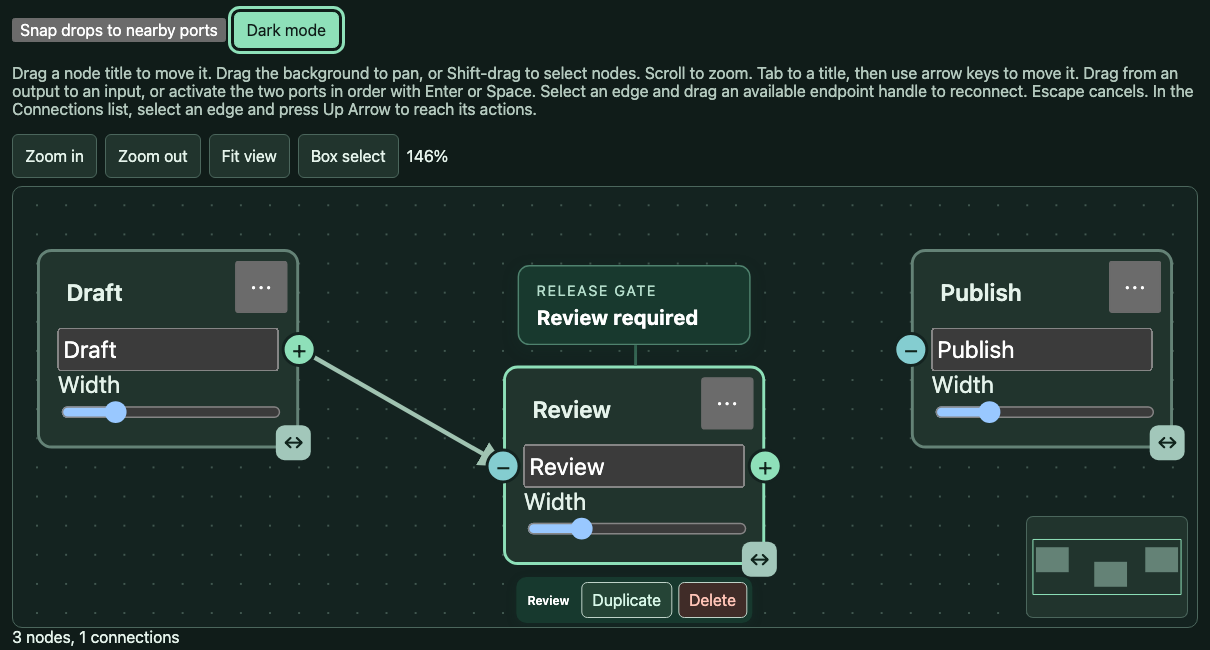
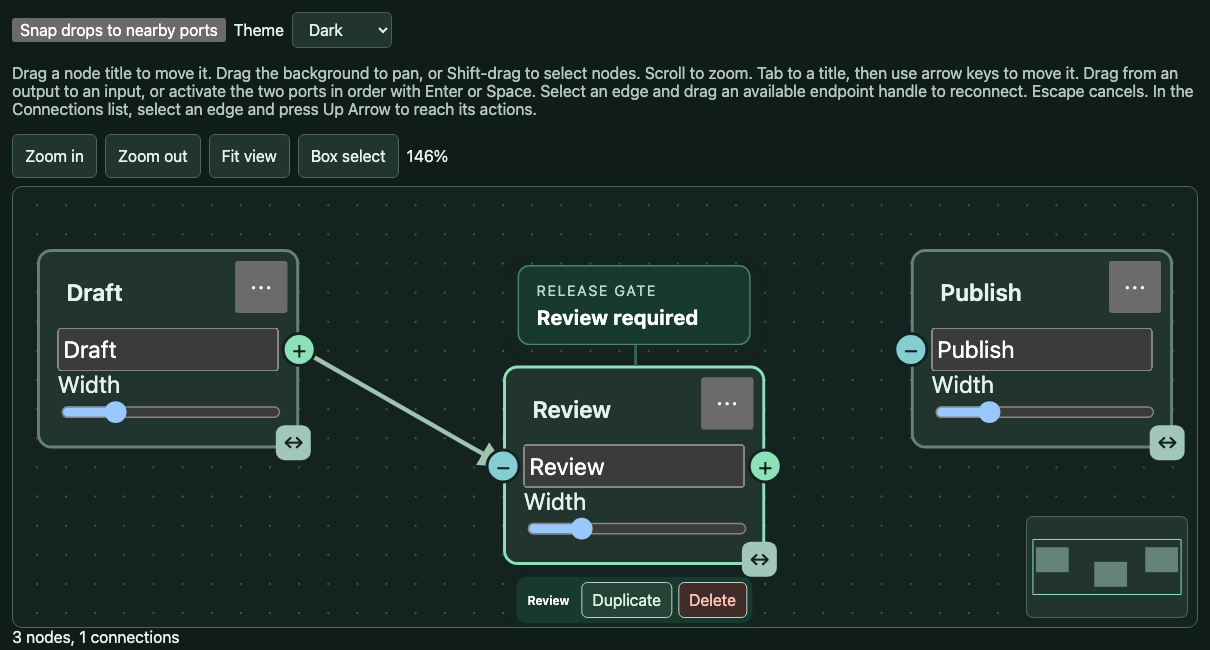
feat(flow-sample): follow the system theme

Changed region(s): [[0.1835, 0.0, 0.3058, 0.0923]]

diff --git a/apps/flow-sample/src/editor/view.ts b/apps/flow-sample/src/editor/view.ts
@@ -20,6 +20,7 @@ import type { Document, HtmlBuilder } from 'foldkit/html';
 import { workbenchPolicy } from './editor-policy';
 import { Message } from './message';
 import {
+  ThemePreference,
   NavigationDesign,
   WheelNavigation,
   BackgroundStyle,
@@ -68,6 +69,8 @@ const edgePathOptions: ReadonlyArray<{ label: string; style: EdgePathStyle | nul
 ];
 
 export function view(model: Model, h: HtmlBuilder<Message>): Document {
+  const themePreference = model.themePreference ?? 'system';
+  const colorScheme = themePreference === 'system' ? model.systemColorScheme : themePreference;
   const button = (label: string, message: Message, disabled = false) =>
     h.button(
       [
@@ -213,7 +216,7 @@ export function view(model: Model, h: HtmlBuilder<Message>): Document {
   return {
     title: 'Workflow patterns | FoldKit Flow',
     body: h.div(
-      [h.DataAttribute('flow-workbench-color-scheme', model.colorScheme ?? 'light')],
+      [h.DataAttribute('flow-workbench-color-scheme', colorScheme)],
       [
         h.div(
           [
@@ -1162,15 +1165,27 @@ export function view(model: Model, h: HtmlBuilder<Message>): Document {
           ],
           ['Snap drops to nearby ports'],
         ),
-        h.button(
+        h.label(
+          [h.Class('workbench-theme-picker')],
           [
-            h.Class('workbench-theme-toggle'),
-            h.Type('button'),
-            h.AriaPressed(String(model.colorScheme === 'dark')),
-            h.Disabled(model.colorScheme === null),
-            h.OnClick(Message.ClickedColorScheme()),
+            'Theme',
+            h.select(
+              [
+                h.Value(themePreference),
+                h.Disabled(model.themePreference === null),
+                h.OnChange((value) =>
+                  Message.SelectedThemePreference({
+                    themePreference: Schema.decodeUnknownSync(ThemePreference)(value),
+                  }),
+                ),
+              ],
+              [
+                h.option([h.Value('system'), h.Selected(themePreference === 'system')], ['System']),
+                h.option([h.Value('light'), h.Selected(themePreference === 'light')], ['Light']),
+                h.option([h.Value('dark'), h.Selected(themePreference === 'dark')], ['Dark']),
+              ],
+            ),
           ],
-          ['Dark mode'],
         ),
         flowView(h, model.editor, {
           renderViewportControls: (context, builder) => {
@@ -1336,7 +1351,7 @@ export function view(model: Model, h: HtmlBuilder<Message>): Document {
           minimalMode: model.minimalMode,
           diagnostics: model.diagnosticsEnabled ? model.diagnostics : false,
           background,
-          theme: workbenchThemes[model.colorScheme ?? 'light'],
+          theme: workbenchThemes[colorScheme],
           nodeToolbar:
             model.nodeToolbarDesign === 'compact'
               ? { placement: 'bottom', offset: 12 }

diff --git a/apps/flow-sample/src/editor/command.ts b/apps/flow-sample/src/editor/command.ts
@@ -3,32 +3,28 @@ import { Effect, Schema } from 'effect';
 import { Command } from 'foldkit';
 
 import { Message } from './message';
-import { ColorScheme } from './model';
+import { ThemePreference } from './model';
 
 const colorSchemeKey = 'opsydyn.foldkit-flow.color-scheme.v1';
 
-export const LoadColorScheme = Command.define('LoadColorScheme', {
-  messages: [Message.LoadedColorScheme],
+export const LoadThemePreference = Command.define('LoadThemePreference', {
+  messages: [Message.LoadedThemePreference],
   execute: Effect.try(() => globalThis.localStorage.getItem(colorSchemeKey)).pipe(
     Effect.match({
-      onSuccess: (stored) => (Schema.is(ColorScheme)(stored) ? stored : null),
-      onFailure: () => null,
+      onSuccess: (stored) =>
+        Message.LoadedThemePreference({
+          themePreference: Schema.is(ThemePreference)(stored) ? stored : 'system',
+        }),
+      onFailure: () => Message.LoadedThemePreference({ themePreference: 'system' }),
     }),
-    Effect.map((stored) =>
-      Message.LoadedColorScheme({
-        colorScheme:
-          stored ??
-          (globalThis.matchMedia?.('(prefers-color-scheme: dark)').matches ? 'dark' : 'light'),
-      }),
-    ),
   ),
 });
 
-export const SaveColorScheme = Command.define('SaveColorScheme', {
-  args: { colorScheme: ColorScheme },
+export const SaveThemePreference = Command.define('SaveThemePreference', {
+  args: { themePreference: ThemePreference },
   messages: [Message.CompletedColorSchemeSave, Message.FailedColorSchemeSave],
-  execute: ({ colorScheme }) =>
-    Effect.try(() => globalThis.localStorage.setItem(colorSchemeKey, colorScheme)).pipe(
+  execute: ({ themePreference }) =>
+    Effect.try(() => globalThis.localStorage.setItem(colorSchemeKey, themePreference)).pipe(
       Effect.match({
         onSuccess: () => Message.CompletedColorSchemeSave(),
         onFailure: () => Message.FailedColorSchemeSave(),

diff --git a/apps/flow-sample/src/editor/update.ts b/apps/flow-sample/src/editor/update.ts
@@ -19,7 +19,7 @@ import {
   ExportFlow,
   ImportFlow,
   LoadFlow,
-  SaveColorScheme,
+  SaveThemePreference,
   SaveFlow,
 } from './command';
 import { workbenchPolicy } from './editor-policy';
@@ -138,14 +138,16 @@ export function update(model: Model, message: Message): Return<Model, Message> {
     ClickedWorldAnnotation: () => ({
       model: { ...model, showWorldAnnotation: !model.showWorldAnnotation },
     }),
-    LoadedColorScheme: ({ colorScheme }) => ({
-      model: model.colorScheme === null ? { ...model, colorScheme } : model,
+    LoadedThemePreference: ({ themePreference }) => ({
+      model: model.themePreference === null ? { ...model, themePreference } : model,
     }),
-    ClickedColorScheme: (): Return<Model, Message> => {
-      if (model.colorScheme === null) return { model };
-      const colorScheme = model.colorScheme === 'light' ? 'dark' : 'light';
-      return { model: { ...model, colorScheme }, commands: [SaveColorScheme({ colorScheme })] };
-    },
+    ChangedSystemColorScheme: ({ colorScheme }) => ({
+      model: { ...model, systemColorScheme: colorScheme },
+    }),
+    SelectedThemePreference: ({ themePreference }) => ({
+      model: { ...model, themePreference },
+      commands: [SaveThemePreference({ themePreference })],
+    }),
     CompletedColorSchemeSave: () => ({ model }),
     FailedColorSchemeSave: () => ({
       model: { ...model, notice: 'Theme changed for this visit. Your browser could not save it.' },

diff --git a/apps/flow-sample/src/editor/model.ts b/apps/flow-sample/src/editor/model.ts
@@ -187,9 +187,12 @@ export const DiagnosticFlag = Schema.Literals([
   'connectionList',
 ]);
 export const ColorScheme = Schema.Literals(['light', 'dark']);
+export const ThemePreference = Schema.Literals(['system', 'light', 'dark']);
+export type ThemePreference = typeof ThemePreference.Type;
 
 export const Model = Schema.Struct({
-  colorScheme: Schema.NullOr(ColorScheme),
+  themePreference: Schema.NullOr(ThemePreference),
+  systemColorScheme: ColorScheme,
   minimalMode: Schema.Boolean,
   showWorldAnnotation: Schema.Boolean,
   diagnosticsEnabled: Schema.Boolean,
@@ -228,7 +231,8 @@ export const Model = Schema.Struct({
   notice: Schema.String,
 });
 export type Model = Readonly<{
-  colorScheme: FlowColorScheme | null;
+  themePreference: ThemePreference | null;
+  systemColorScheme: FlowColorScheme;
   minimalMode: boolean;
   showWorldAnnotation: boolean;
   diagnosticsEnabled: boolean;
@@ -260,7 +264,8 @@ export type Model = Readonly<{
 }>;
 export const init = () => ({
   model: {
-    colorScheme: null,
+    themePreference: null,
+    systemColorScheme: 'light',
     minimalMode: false,
     showWorldAnnotation: false,
     diagnosticsEnabled: true,

diff --git a/apps/flow-sample/src/editor/main.ts b/apps/flow-sample/src/editor/main.ts
@@ -1,9 +1,22 @@
-import { LoadColorScheme } from './command';
-import { init as initModel } from './model';
+import { Dom, Subscription } from 'foldkit';
+
+import { LoadThemePreference } from './command';
+import { Message } from './message';
+import { init as initModel, type Model } from './model';
 
 export { Model } from './model';
 export { Message } from './message';
 export { update } from './update';
 export { view } from './view';
 
-export const init = () => ({ ...initModel(), commands: [LoadColorScheme()] });
+export const init = () => ({ ...initModel(), commands: [LoadThemePreference()] });
+
+export const subscriptions = Subscription.make<Model, Message>()(() => ({
+  systemColorScheme: Subscription.persistentEntry(
+    Dom.streamFromMediaQuery({
+      query: '(prefers-color-scheme: dark)',
+      mapMatches: (dark) =>
+        Message.ChangedSystemColorScheme({ colorScheme: dark ? 'dark' : 'light' }),
+    }),
+  ),
+}));

diff --git a/apps/flow-sample/src/editor/message.ts b/apps/flow-sample/src/editor/message.ts
@@ -3,6 +3,7 @@ import { defineMessageUnion } from 'foldkit/message';
 
 import {
   ColorScheme,
+  ThemePreference,
   NavigationDesign,
   WheelNavigation,
   PortAnchorPreset,
@@ -44,8 +45,9 @@ export const Message = defineMessageUnion({
   SelectedEdgeDesign: { edgeDesign: EdgeDesign },
   SelectedNodeDesign: { nodeDesign: NodeDesign },
   SelectedBackground: { background: BackgroundStyle },
-  ClickedColorScheme: {},
-  LoadedColorScheme: { colorScheme: ColorScheme },
+  SelectedThemePreference: { themePreference: ThemePreference },
+  LoadedThemePreference: { themePreference: ThemePreference },
+  ChangedSystemColorScheme: { colorScheme: ColorScheme },
   CompletedColorSchemeSave: {},
   FailedColorSchemeSave: {},
   ClickedMinimalMode: {},

diff --git a/apps/flow-sample/README.md b/apps/flow-sample/README.md
@@ -314,8 +314,8 @@ connections and reconnections. Hover near a compatible port to preview
 the drop before releasing.
 [Workbench screenshot](evidence/connection-drop-radius.png)
 
-Use **Dark mode** to switch the Astro page and the FoldKit canvas together.
-The workbench reads the system preference when it opens. Once you use the
-switch, your choice takes precedence on later visits in the same browser.
-Changing modes keeps the current diagram, selection, and viewport.
+Choose **System**, **Light**, or **Dark** from the theme picker. System follows
+your browser's color preference as it changes. The workbench defaults to System
+and remembers your selection in the same browser. Changing themes keeps the
+current diagram, selection, and viewport.
 [Light mode](evidence/theme-light.png) · [Dark mode](evidence/theme-dark.png)
